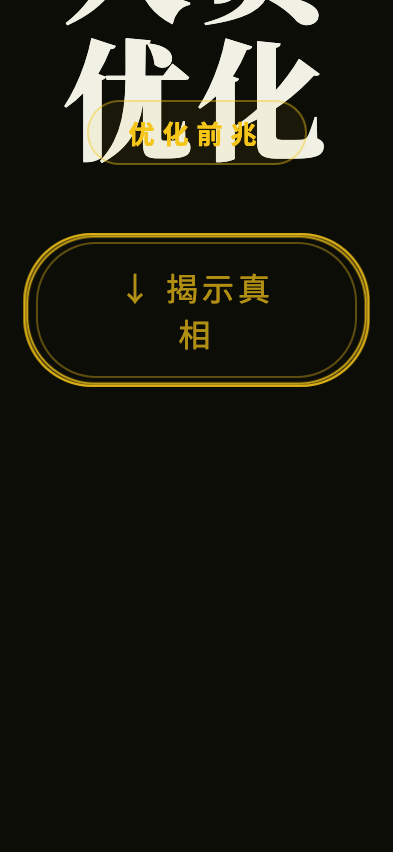
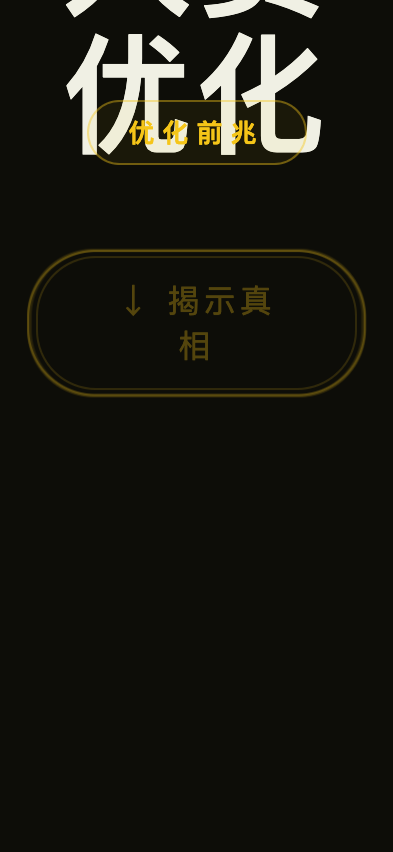
feat: 职场生存法则 screenshot - renyuanyouhua

diff --git a/wuliao-tools/tools/biz-speak/scenes/wozhidaonishouweiqule.html b/wuliao-tools/tools/biz-speak/scenes/wozhidaonishouweiqule.html
@@ -9,9 +9,9 @@
   :root {
     --bg: #0f0a12;
     --text: #f0ece4;
-    --text-dim: #8a8a9a;
-    --gold: #4caf50;
-    --red: #ff5722;
+    --text-dim: #9a8ab0;
+    --gold: #9b59b6;
+    --red: #e74c3c;
   }
   * { margin:0; padding:0; box-sizing:border-box; }
   html, body { width:100%; height:100%; overflow:hidden; }
@@ -24,11 +24,11 @@
   }
   body::before {
     content:''; position:absolute; top:0; left:0; right:0; height:45%;
-    background:radial-gradient(ellipse at 50% 0%, rgba(76,175,80,0.1) 0%, transparent 65%);
+    background:radial-gradient(ellipse at 50% 0%, rgba(155,89,182,0.1) 0%, transparent 65%);
     pointer-events:none; z-index:0;
   }
   .top { flex:1; display:flex; flex-direction:column; align-items:center; justify-content:flex-end; padding:4px 28px 8px; position:relative; z-index:1; }
-  .tag { font-size:11px; letter-spacing:3px; color:var(--gold); border:1px solid rgba(76,175,80,0.3); padding:5px 16px; border-radius:50px; margin-bottom:20px; }
+  .tag { font-size:11px; letter-spacing:3px; color:var(--gold); border:1px solid rgba(155,89,182,0.3); padding:5px 16px; border-radius:50px; margin-bottom:20px; }
   .main-title { font-family:'Noto Serif SC'; font-size:68px; font-weight:900; text-align:center; line-height:1.15; letter-spacing:3px; min-width:0; overflow-wrap:break-word; max-width:92%; }
   .sub-title { font-size:26px; color:var(--text-dim); text-align:center; margin-top:14px; }
   .divider { width:100%; height:3px; background:linear-gradient(90deg,transparent,var(--gold),transparent); opacity:0.35; flex-shrink:0; position:relative; z-index:1; }
@@ -39,7 +39,7 @@
   .quote { font-size:17px; color:var(--text-dim); font-style:italic; text-align:center; line-height:1.8; margin-top:18px; padding:0 12px; }
 </style>
 </head>
-<body>
+<body class="theme-7">
   <div class="top">
     <div class="tag">软手段收服</div>
     <div class="main-title">我知道你受委屈了</div>
@@ -49,9 +49,7 @@
   <div class="bottom">
     <div class="truth-label">💬 潜台词</div>
     <div class="truth-lines">
-      <div class="truth-line">先安抚你的情绪</div>
-      <div class="truth-line">用软话稳住你</div>
-      <div class="truth-line">实际什么都不用给</div>
+      <div class="truth-line">先安抚你的情绪</div><div class="truth-line">用软话稳住你</div><div class="truth-line">实际什么都不用给</div>
     </div>
     <div class="quote">"懂怀柔的领导，靠情绪就能管人，不用花钱。"</div>
   </div>
